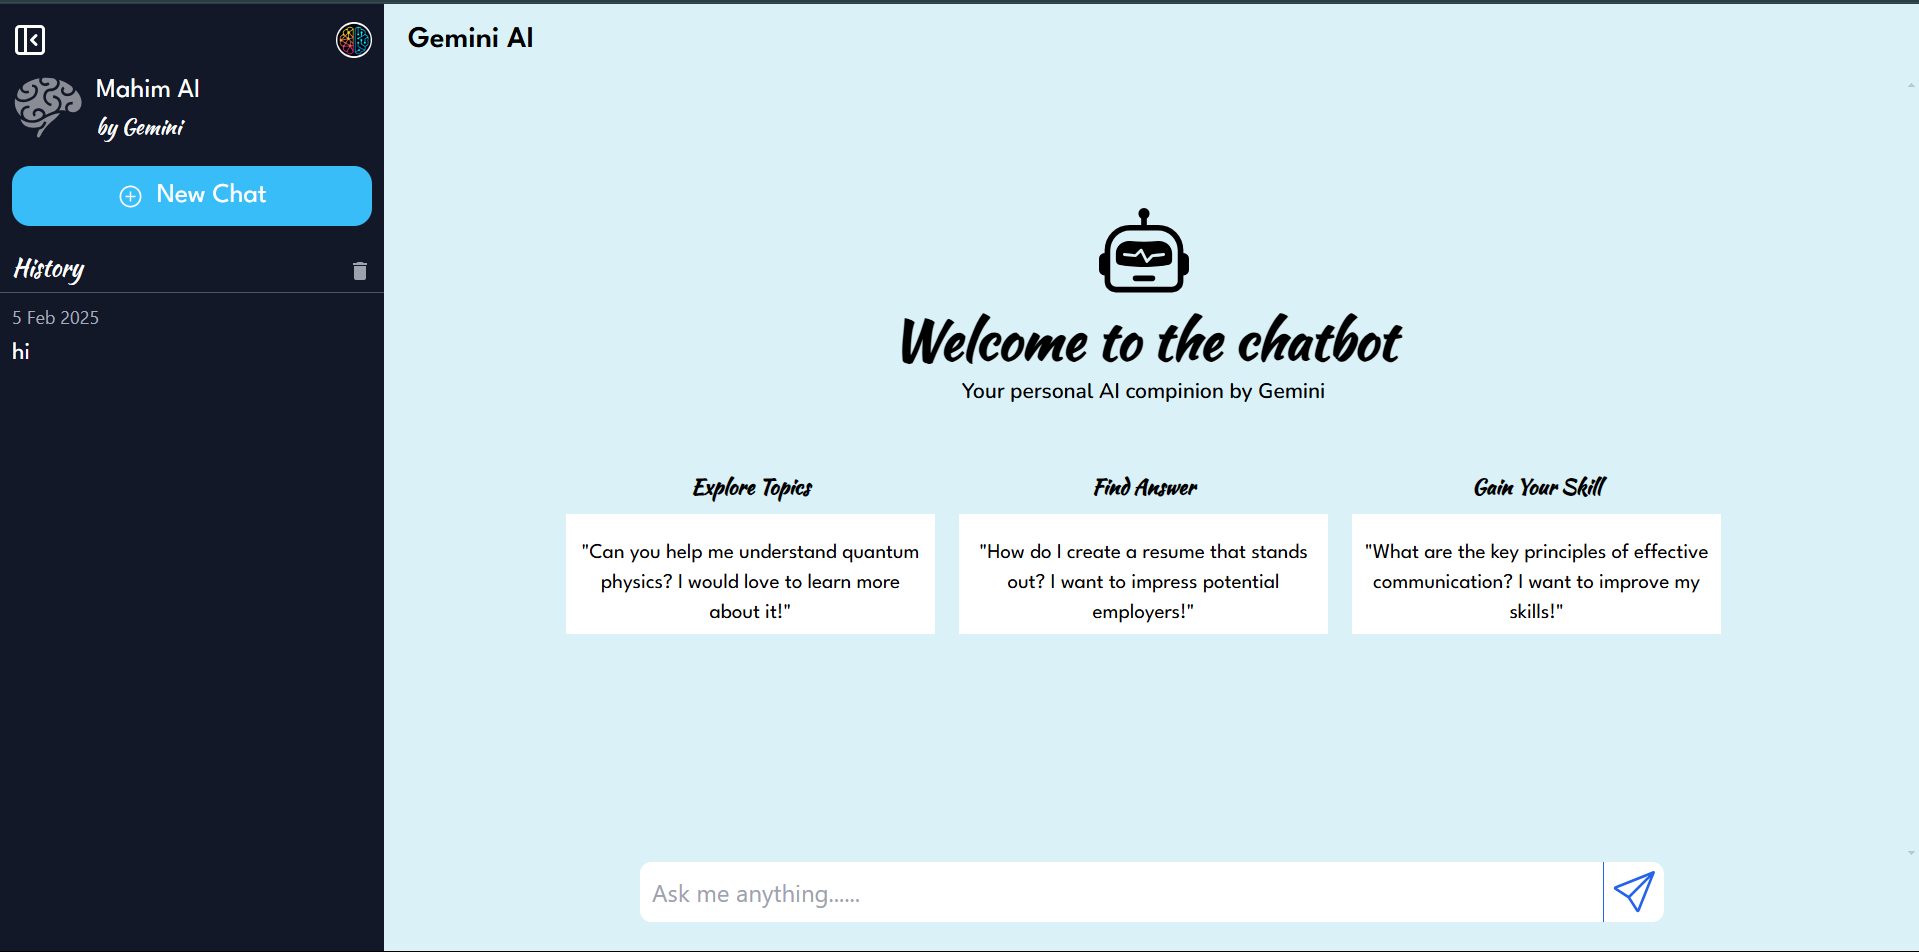
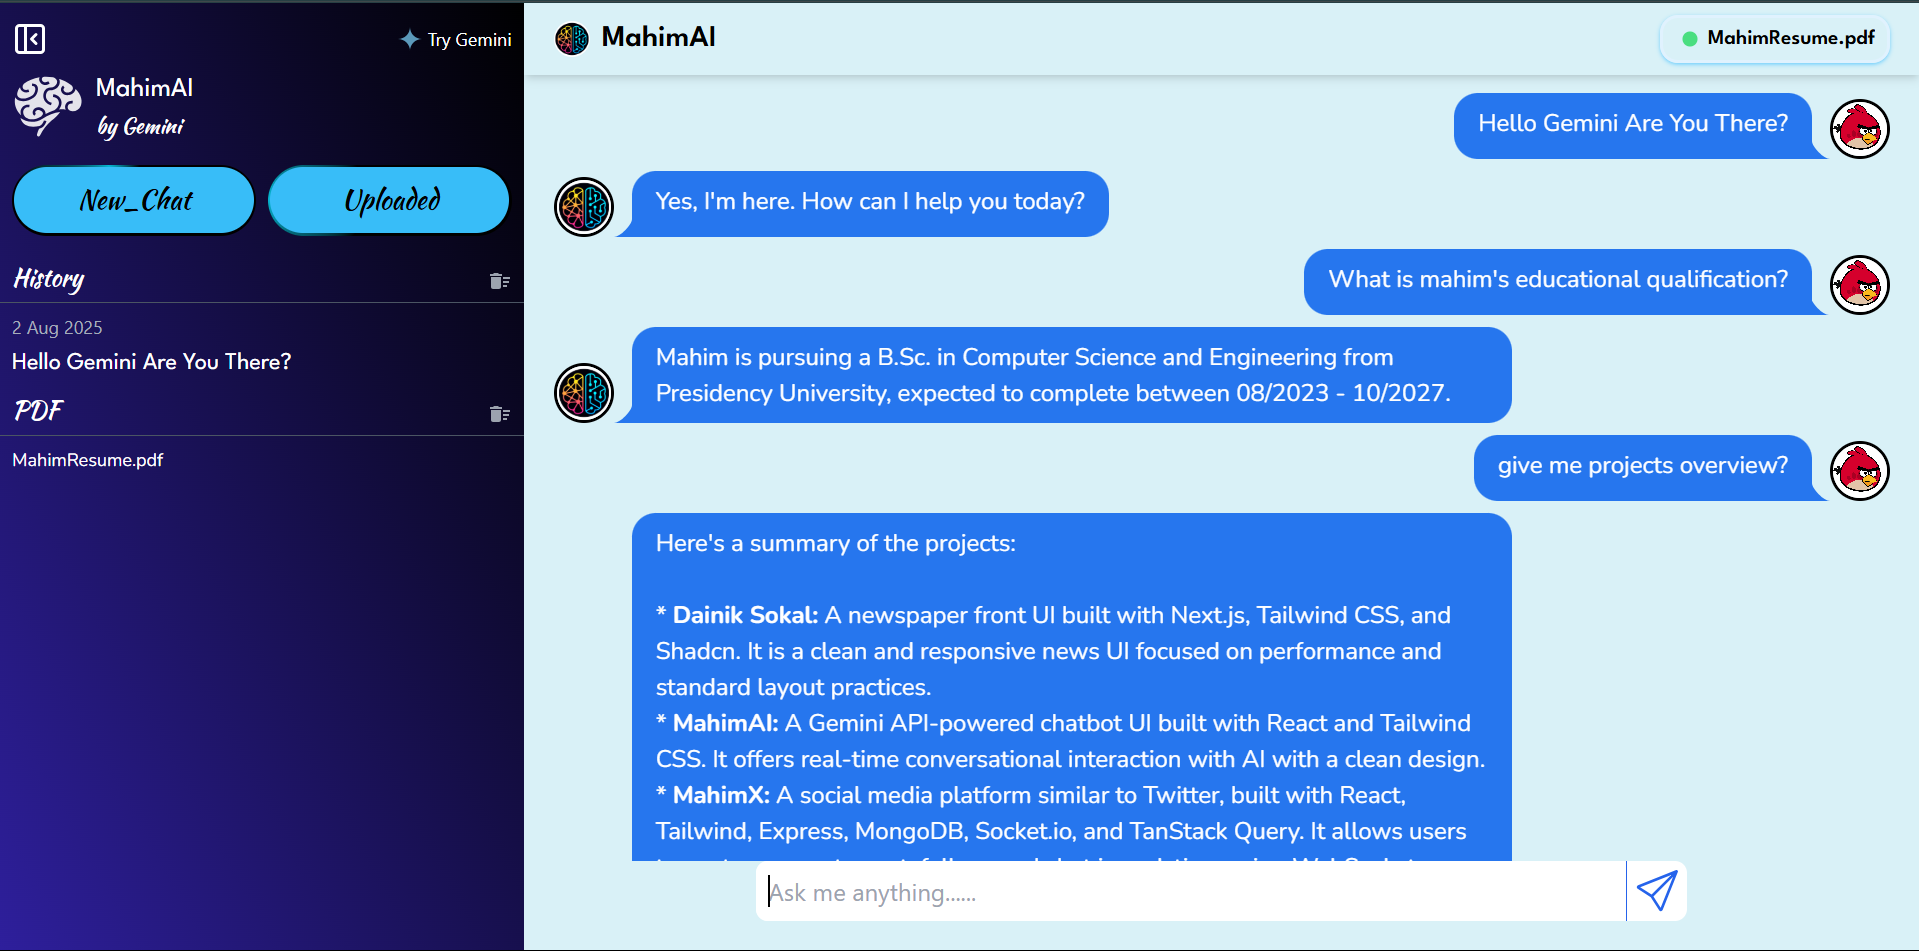
Agust 1st updated

diff --git a/src/components/Projects.jsx b/src/components/Projects.jsx
@@ -102,20 +102,23 @@ const ProjectShowcase = () => {
       featured: false,
     },
     {
-      title: "MahimAI - AI Chatbot Powered by Gemini",
+      title: "MahimAI - PDF Analyzer",
       description:
-        "MahimAI is an AI chatbot that is powered by Gemini, a powerful AI engine that can understand and respond to user queries. MahimAI can provide information, answer questions, and even save chats on browser local storage.",
+        "MahimAI is an AI chatbot that is powered by Gemini, a powerful AI engine that can understand and respond to user queries with uploaded PDF files. MahimAI can provide information, answer questions, and even save chats on browser local storage.",
       tags: [
         "Vite",
         "Tailwind",
-        "LocalStorage",
-        "SessionStorage",
         "Gemini",
         "Flash-1.5",
+        "Axios",
+        "Express",
+        "Multer",
+        "LangChain",
+        "Cloudinary",
       ],
       links: {
-        github: "https://github.com/MostasirMahim/Chatbot",
-        demo: "https://mahimai.netlify.app",
+        github: "https://github.com/MostasirMahim",
+        demo: "https://mahimai.onrender.com",
       },
       image: mahimai,
       featured: false,

diff --git a/src/components/Hero.jsx b/src/components/Hero.jsx
@@ -64,7 +64,7 @@ const profile = {
         'React', 'NextJS', 'Socket.io', 'ExpressJS',
         'TypeScript', 'TailwindCSS', 'Tanstack Query',
         'PostgreSQL', 'MongoDB', 'Prisma', 'MongoShell',
-        'Git', 'Zustand', 'Clerk', 'Formik', 'Shadcn', 'DaisyUI',
+        'Git', 'Docker', 'Clerk', 'Neon', 'Shadcn', 'DaisyUI',
     ],
     hardWorker: true,
     quickLearner: true,
@@ -166,7 +166,7 @@ const profile = {
 
                 {/* CV Button */}
                 <a
-                  href="https://drive.google.com/file/d/1RNK88UlYtqJqfrNp8yN5bqhlYrvT-IOV/view?usp=sharing"
+                  href="https://drive.google.com/file/d/10wDI5jKNSOfzgf82aLNo5C2EkUv4Mp9J/view?usp=sharing"
                   className="w-1/3 group relative inline-flex items-center justify-center gap-3 p-0.5 rounded-xl bg-gradient-to-r from-pink-600 to-purple-500 transition-all duration-300 hover:scale-105 hover:shadow-[0_0_2rem_-0.5rem_#60A5FA]"
                 >
                   <span className="block w-full px-6 sm:px-8 py-3 sm:py-4 rounded-[11px] bg-gray-900 border border-gray-700/50 transition-all duration-300 group-hover:bg-gradient-to-r group-hover:from-pink-500 group-hover:to-purple-600">

diff --git a/src/App.jsx b/src/App.jsx
@@ -1,4 +1,4 @@
-import { useEffect, useState } from "react";
+import { useState } from "react";
 import Hero from "./components/Hero";
 import "./assets/css/index.css";
 import Header from "./components/Header";
@@ -11,16 +11,17 @@ import { Route, Routes } from "react-router-dom";
 
 export default function App() {
   const [isOnePage, setIsOnePage] = useState(false); // Toggle state
-  useEffect(() => {
-    const mediaQuery = window.matchMedia("(max-width: 639px)");
-    const handleChange = (e) => setIsOnePage(e.matches);
 
-    // Initial check
-    setIsOnePage(mediaQuery.matches);
-    mediaQuery.addEventListener("change", handleChange);
+  // useEffect(() => {
+  //   const mediaQuery = window.matchMedia("(max-width: 639px)");
+  //   const handleChange = (e) => setIsOnePage(e.matches);
 
-    return () => mediaQuery.removeEventListener("change", handleChange);
-  }, []);
+  //   // Initial check
+  //   setIsOnePage(mediaQuery.matches);
+  //   mediaQuery.addEventListener("change", handleChange);
+
+  //   return () => mediaQuery.removeEventListener("change", handleChange);
+  // }, []);
   return (
     <>
       <Header />

diff --git a/src/components/Skills.jsx b/src/components/Skills.jsx
@@ -56,7 +56,7 @@ const SkillsSection = () => {
       icon: Cloud,
       title: "Cloud & DevOps",
       color: "text-orange-400",
-      skills: ["Render", "Vercel", "Netlify", "Git", "GitHub"],
+      skills: ["Render", "Vercel", "Netlify", "GitHub"],
     },
     {
       icon: Cpu,
@@ -70,6 +70,8 @@ const SkillsSection = () => {
         "Firebase",
         "Vercel",
         "Vite",
+        "Docker",
+        "Git",
       ],
     },
     {
